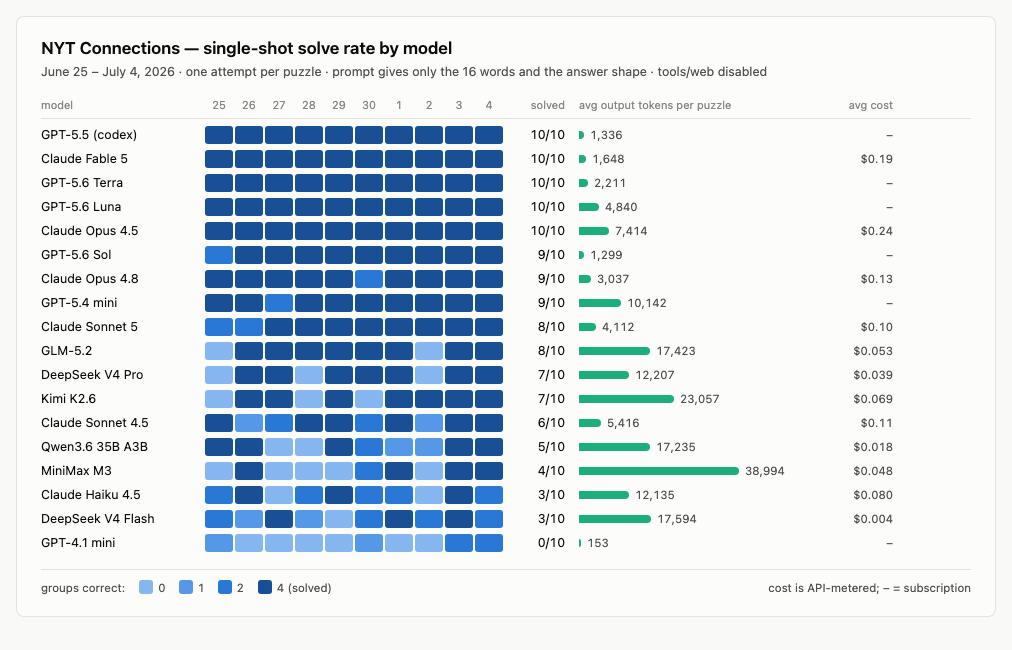
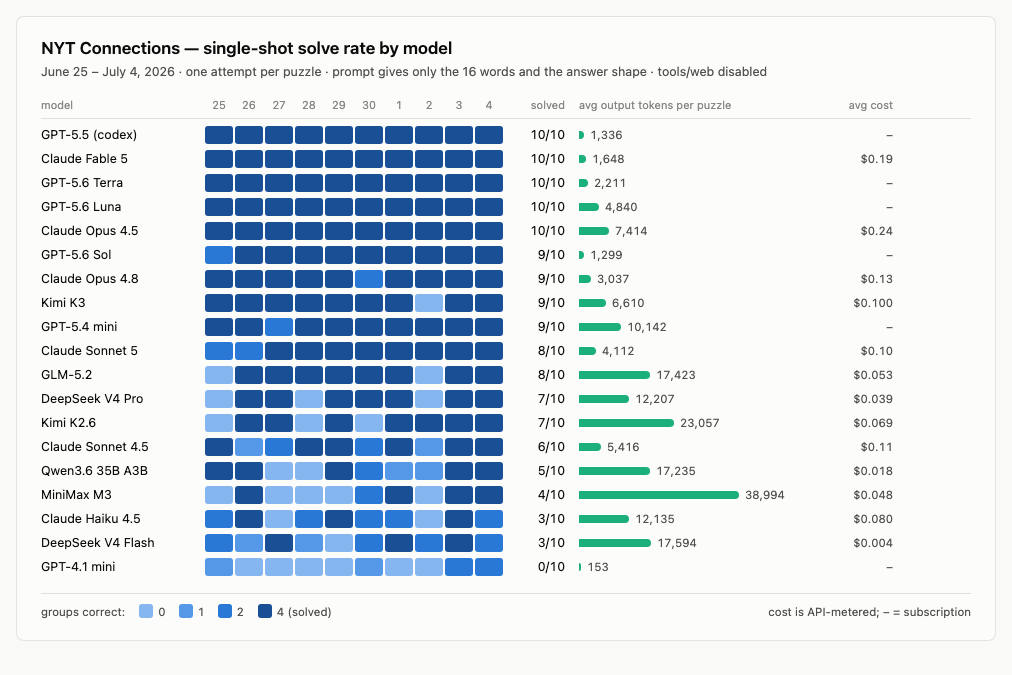
Add Kimi K3 results and the missing-one puzzle variant
Kimi K3 (released 2026-07-16) over the standard 10-day sweep: 9/10 solved,
6,610 avg output tokens, $0.100/puzzle. Best open-weight model on the board —
ahead of GLM-5.2 (8/10) and its predecessor K2.6 (7/10), level with Opus 4.8
and GPT-5.6 Sol, and reaching that with a third of K2.6's thinking tokens.

Its one miss (July 2) is a JSONDecodeError parsing OpenRouter's response body,
reproduced three times at a different offset each time, on the puzzle where it
thinks longest. Counted as a failure per existing policy; cause unconfirmed and
recorded as a caveat since it may be a run_openrouter parsing gap rather than a
K3 defect.

Also lands the previously in-progress --missing variant: drops the first board
word, prompts for the 15 remaining, grades against 3x4 + 1x3. Tracked under its
own variant tag and prompt version so it never mixes with standard results.
Adds --no-record for local-only runs.

Figure regenerated at 19 rows (viewport 675).

diff --git a/bench.py b/bench.py
@@ -30,9 +30,22 @@ RESULTS_FILE = ROOT / "results" / "runs.jsonl"
 NYT_URL = "https://www.nytimes.com/svc/connections/v2/{date}.json"
 
 PROMPT_VERSION = 3
+MISSING_PROMPT_VERSION = 1
+STANDARD_VARIANT = "standard"
+MISSING_VARIANT = "missing-one"
+MISSING_POSITION = 0  # first word in board order, for every puzzle
 
 PROMPT_TEMPLATE = """\
 Solve the puzzle:
+
+{words}
+
+Respond with ONLY a JSON object, no other text:
+{{"groups": [{{"theme": "...", "words": ["...", "..."]}}, ...]}}
+"""
+
+MISSING_PROMPT_TEMPLATE = """\
+Solve the puzzle. One word is missing; group only the words shown:
 
 {words}
 
@@ -65,10 +78,12 @@ def board_words(puzzle: dict) -> list[str]:
     return [c["content"] for c in sorted(cards, key=lambda c: c["position"])]
 
 
-def answer_groups(puzzle: dict) -> dict[frozenset, str]:
+def answer_groups(puzzle: dict, omitted_word: str | None = None) -> dict[frozenset, str]:
     """Map frozenset of normalized words -> category title."""
+    omitted = norm(omitted_word) if omitted_word else None
     return {
-        frozenset(norm(c["content"]) for c in cat["cards"]): cat["title"]
+        frozenset(norm(c["content"]) for c in cat["cards"]
+                  if norm(c["content"]) != omitted): cat["title"]
         for cat in puzzle["categories"]
     }
 
@@ -292,16 +307,17 @@ def grade(text: str, answers: dict[frozenset, str]) -> dict:
     result["guess"] = guess
 
     all_answer_words = set().union(*answers)
+    expected_sizes = sorted(len(s) for s in answers)
     guess_sets = [frozenset(norm(w) for w in g["words"]) for g in guess]
     used = [w for s in guess_sets for w in s]
     result["valid"] = (
-        len(guess_sets) == 4
-        and all(len(s) == 4 for s in guess_sets)
-        and len(used) == 16
+        len(guess_sets) == len(answers)
+        and sorted(len(s) for s in guess_sets) == expected_sizes
+        and len(used) == len(all_answer_words)
         and set(used) == all_answer_words
     )
     result["correct_groups"] = sum(1 for s in guess_sets if s in answers)
-    result["solved"] = result["correct_groups"] == 4
+    result["solved"] = result["correct_groups"] == len(answers)
     return result
 
 
@@ -325,18 +341,38 @@ def append_run(run: dict) -> None:
 
 # ---------------------------------------------------------------- commands
 
-def attempt(date: str, spec: str, timeout: int) -> dict:
+def run_variant(run: dict) -> str:
+    """Return a run's variant, treating historical records as standard."""
+    return run.get("variant", STANDARD_VARIANT)
+
+
+def prompt_version(variant: str) -> int:
+    return MISSING_PROMPT_VERSION if variant == MISSING_VARIANT else PROMPT_VERSION
+
+
+def attempt(date: str, spec: str, timeout: int,
+            variant: str = STANDARD_VARIANT) -> dict:
     puzzle = fetch_puzzle(date)
     runner, model, effort = parse_model_spec(spec)
-    prompt = PROMPT_TEMPLATE.format(words="\n".join(board_words(puzzle)))
+    words = board_words(puzzle)
+    omitted_word = None
+    if variant == MISSING_VARIANT:
+        omitted_word = words.pop(MISSING_POSITION)
+        template = MISSING_PROMPT_TEMPLATE
+    else:
+        template = PROMPT_TEMPLATE
+    prompt = template.format(words="\n".join(words))
     run = {
         "ts": dt.datetime.now(dt.timezone.utc).isoformat(timespec="seconds"),
         "date": date,
         "puzzle_id": puzzle.get("id"),
         "model": spec,
         "runner": runner,
-        "prompt_v": PROMPT_VERSION,
+        "variant": variant,
+        "prompt_v": prompt_version(variant),
     }
+    if omitted_word:
+        run["omitted_word"] = omitted_word
     start = time.monotonic()
     try:
         out = RUNNERS[runner](prompt, model, effort, timeout)
@@ -345,7 +381,7 @@ def attempt(date: str, spec: str, timeout: int) -> dict:
                     "correct_groups": 0, "duration_s": round(time.monotonic() - start, 1)})
         return run
     run["duration_s"] = round(time.monotonic() - start, 1)
-    graded = grade(out["text"], answer_groups(puzzle))
+    graded = grade(out["text"], answer_groups(puzzle, omitted_word))
     run.update(graded)
     run.update({k: out[k] for k in
                 ("tokens_in", "tokens_in_cached", "tokens_out", "tokens_reasoning",
@@ -355,6 +391,8 @@ def attempt(date: str, spec: str, timeout: int) -> dict:
 
 
 def cmd_run(args: argparse.Namespace) -> None:
+    variant = MISSING_VARIANT if args.missing else STANDARD_VARIANT
+    current_prompt_version = prompt_version(variant)
     if args.date:
         dates = [args.date]
     elif args.start and args.end:
@@ -376,9 +414,10 @@ def cmd_run(args: argparse.Namespace) -> None:
         specs = [s.strip() for s in roster.read_text().splitlines()
                  if s.strip() and not s.startswith("#")]
     done = {(r["date"], r["model"]) for r in load_runs()
-            if not r.get("error") and r.get("prompt_v", 1) == PROMPT_VERSION}
+            if not r.get("error") and run_variant(r) == variant
+            and r.get("prompt_v", 1) == current_prompt_version}
     tasks = [(d, s) for d in dates for s in specs
-             if args.rerun or (d, s) not in done]
+             if args.no_record or args.rerun or (d, s) not in done]
     skipped = len(dates) * len(specs) - len(tasks)
     if skipped:
         print(f"skipping {skipped} attempt(s) already recorded (use --rerun to redo)")
@@ -390,12 +429,16 @@ def cmd_run(args: argparse.Namespace) -> None:
     for d in dates:
         fetch_puzzle(d)
 
-    print(f"running {len(tasks)} attempt(s) with {args.jobs} worker(s)")
+    print(f"running {len(tasks)} {variant} attempt(s) with {args.jobs} worker(s)")
+    session_runs = []
     with concurrent.futures.ThreadPoolExecutor(max_workers=args.jobs) as pool:
-        futures = {pool.submit(attempt, d, s, args.timeout): (d, s) for d, s in tasks}
+        futures = {pool.submit(attempt, d, s, args.timeout, variant): (d, s)
+                   for d, s in tasks}
         for fut in concurrent.futures.as_completed(futures):
             run = fut.result()
-            append_run(run)
+            session_runs.append(run)
+            if not args.no_record:
+                append_run(run)
             if run.get("error"):
                 status = f"ERROR {run['error'][:80]}"
             else:
@@ -404,17 +447,26 @@ def cmd_run(args: argparse.Namespace) -> None:
                 status += (f"  in={run['tokens_in'] + run['tokens_in_cached']}"
                            f" out={run['tokens_out']} tok, {run['duration_s']}s")
             print(f"  {run['date']}  {run['model']:<24} {status}")
-    cmd_summary(args)
+    if args.no_record:
+        print("\nlocal-only run: results were not recorded")
+        cmd_summary(args, session_runs)
+    else:
+        cmd_summary(args)
 
 
-def cmd_summary(_args: argparse.Namespace) -> None:
-    runs = load_runs()
-    older = sum(1 for r in runs if r.get("prompt_v", 1) != PROMPT_VERSION)
-    runs = [r for r in runs if r.get("prompt_v", 1) == PROMPT_VERSION]
+def cmd_summary(args: argparse.Namespace, supplied_runs: list[dict] | None = None) -> None:
+    variant = MISSING_VARIANT if args.missing else STANDARD_VARIANT
+    current_prompt_version = prompt_version(variant)
+    runs = supplied_runs if supplied_runs is not None else load_runs()
+    variant_runs = [r for r in runs if run_variant(r) == variant]
+    older = sum(1 for r in variant_runs
+                if r.get("prompt_v", 1) != current_prompt_version)
+    runs = [r for r in variant_runs
+            if r.get("prompt_v", 1) == current_prompt_version]
     if older:
         print(f"(ignoring {older} run(s) from older prompt versions)")
     if not runs:
-        print("no runs recorded yet for the current prompt version")
+        print(f"no {variant} runs recorded yet for the current prompt version")
         return
     # Keep only the latest attempt per (date, model).
     latest: dict[tuple, dict] = {}
@@ -465,9 +517,15 @@ def main() -> None:
                        help="per-attempt timeout in seconds")
     run_p.add_argument("--rerun", action="store_true",
                        help="rerun even if already recorded")
+    run_p.add_argument("--missing", action="store_true",
+                       help="remove the first board word from every puzzle")
+    run_p.add_argument("--no-record", action="store_true",
+                       help="print results without appending them to runs.jsonl")
     run_p.set_defaults(func=cmd_run)
 
     sum_p = sub.add_parser("summary", help="print results table")
+    sum_p.add_argument("--missing", action="store_true",
+                       help="summarize the missing-one variant")
     sum_p.set_defaults(func=cmd_summary)
 
     args = ap.parse_args()

diff --git a/viz.py b/viz.py
@@ -9,7 +9,7 @@ import json
 from html import escape
 from pathlib import Path
 
-from bench import PROMPT_VERSION, load_runs
+from bench import PROMPT_VERSION, STANDARD_VARIANT, load_runs, run_variant
 
 ROOT = Path(__file__).resolve().parent
 
@@ -33,6 +33,7 @@ LABELS = {
     "openrouter:deepseek/deepseek-v4-pro": "DeepSeek V4 Pro",
     "openrouter:deepseek/deepseek-v4-flash": "DeepSeek V4 Flash",
     "openrouter:moonshotai/kimi-k2.6": "Kimi K2.6",
+    "openrouter:moonshotai/kimi-k3": "Kimi K3",
     "openrouter:z-ai/glm-5.2": "GLM-5.2",
     "openrouter:minimax/minimax-m3": "MiniMax M3",
     "openrouter:qwen/qwen3.6-35b-a3b": "Qwen3.6 35B A3B",
@@ -42,7 +43,8 @@ LABELS = {
 def build() -> str:
     latest = {}
     for r in load_runs():
-        if r.get("prompt_v", 1) == PROMPT_VERSION:
+        if (run_variant(r) == STANDARD_VARIANT
+                and r.get("prompt_v", 1) == PROMPT_VERSION):
             latest[(r["date"], r["model"])] = r
     dates = sorted({d for d, _ in latest})
     models = sorted({m for _, m in latest})

diff --git a/README.md b/README.md
@@ -6,7 +6,7 @@ no feedback, no tools.
 
 <picture>
   <source media="(prefers-color-scheme: dark)" srcset="assets/results-dark.png">
-  <img alt="Solve-rate grid: 18 models × 10 daily puzzles, with per-model solved counts, average output tokens, and cost" src="assets/results-light.png">
+  <img alt="Solve-rate grid: 19 models × 10 daily puzzles, with per-model solved counts, average output tokens, and cost" src="assets/results-light.png">
 </picture>
 
 ## Results (June 25 – July 4, 2026)
@@ -20,6 +20,7 @@ no feedback, no tools.
 | Claude Opus 4.5 @high | **10/10** | 7,414 | $0.24 |
 | GPT-5.6 Sol @high | 9/10 | 1,299 | – (sub) |
 | Claude Opus 4.8 @high | 9/10 | 3,037 | $0.13 |
+| Kimi K3 | 9/10 | 6,610 | $0.100 |
 | GPT-5.4 mini | 9/10 | 10,142 | – (sub) |
 | Claude Sonnet 5 @high | 8/10 | 4,112 | $0.10 |
 | GLM-5.2 | 8/10 | 17,423 | $0.053 |
@@ -36,14 +37,19 @@ Things the sweep surfaced:
 
 - **The GPT-5.6 family went 29/30.** Terra and Luna swept all ten puzzles; Sol
   got 2/4 groups on June 25 despite using the fewest average output tokens.
-- **Puzzle difficulty swings hard day to day** — July 3 fell to 17 of 18 models,
-  June 25 to only 9. Single-day comparisons are noise.
+- **Puzzle difficulty swings hard day to day** — July 3 fell to 18 of 19 models,
+  June 25 and July 2 to only 10. Single-day comparisons are noise.
 - **Reasoning is the entry ticket.** GPT-4.1 mini (no reasoning) answers in
   ~150 tokens and went 0/10. Everything that deliberates solves at least a few.
 - **Capability shows up as token efficiency, not just accuracy.** The top models
   average 1–5k output tokens; mid-tier models burn 10–40k for worse results.
-- **GLM-5.2 is the open-weight standout** — 8/10 for half a cent per solve-tier
-  performance, matching Claude Sonnet 5.
+- **Kimi K3 leads the open-weight field** — 9/10, ahead of GLM-5.2 (8/10) and its
+  own predecessor K2.6 (7/10), and level with Claude Opus 4.8 and GPT-5.6 Sol. It
+  gets there while thinking a third as much as K2.6 (6.6k vs 23k output tokens),
+  so the generation's efficiency gains are real and not just accuracy gains. Its
+  one miss was a malformed API response rather than a wrong grouping — counted as
+  a failure, but see the caveat below.
+- **GLM-5.2 is still the value pick** — 8/10 at half K3's cost per puzzle.
 
 ## How it works
 
@@ -84,6 +90,7 @@ Things the sweep surfaced:
 ```sh
 ./bench.py run --date 2026-07-04                 # roster from models.txt
 ./bench.py run --start 2026-06-25 --end 2026-07-04 --jobs 6
+./bench.py run --start 2026-06-25 --end 2026-07-04 --models codex:gpt-5.5 --missing --no-record
 ./bench.py run --date 2026-07-09 --models codex:gpt-5.6-sol@high,codex:gpt-5.6-terra@high,codex:gpt-5.6-luna@high
 ./bench.py run --date 2026-07-04 --models claude:haiku@low,openrouter:z-ai/glm-5.2
 ./bench.py summary                               # leaderboard table
@@ -95,8 +102,13 @@ gitignored `.env`. Attempts already recorded for a (date, model, prompt-version)
 are skipped; `--rerun` forces. Errored attempts retry automatically on the next
 run. GPT-5.6 requires Codex CLI 0.144.0 or newer.
 
+`--missing` is a harder variant that always removes the first word in board
+order. The prompt only says that one word is missing and asks the model to group
+the 15 shown words; grading expects three groups of four and one group of three.
+Use `summary --missing` to keep its results separate from the standard benchmark.
+
 The figure: `python3 viz.py` then
-`npx playwright screenshot --viewport-size "1012,650" --color-scheme light viz.html assets/results-light.png`
+`npx playwright screenshot --viewport-size "1012,675" --color-scheme light viz.html assets/results-light.png`
 (and again with `dark`).
 
 ## Caveats
@@ -111,3 +123,12 @@ The figure: `python3 viz.py` then
   is exact.
 - One attempt per (date, model) — solve rates on 10 puzzles carry ±1-puzzle
   noise; treat close rankings as ties.
+- **Errors count as failures**, which can understate a model when the fault is
+  the transport rather than the reasoning. Kimi K3's single miss (July 2) is a
+  `JSONDecodeError` raised while parsing OpenRouter's *response body*, reproduced
+  on three separate attempts at a different byte offset each time, on the puzzle
+  where it thinks longest. The response never reached grading, so nothing is
+  known about whether the grouping would have been right. Cause is unconfirmed;
+  the leading theory is keepalive lines injected into long-running non-streaming
+  responses, which would make it a `run_openrouter` parsing gap affecting any
+  slow model, not a K3 defect.